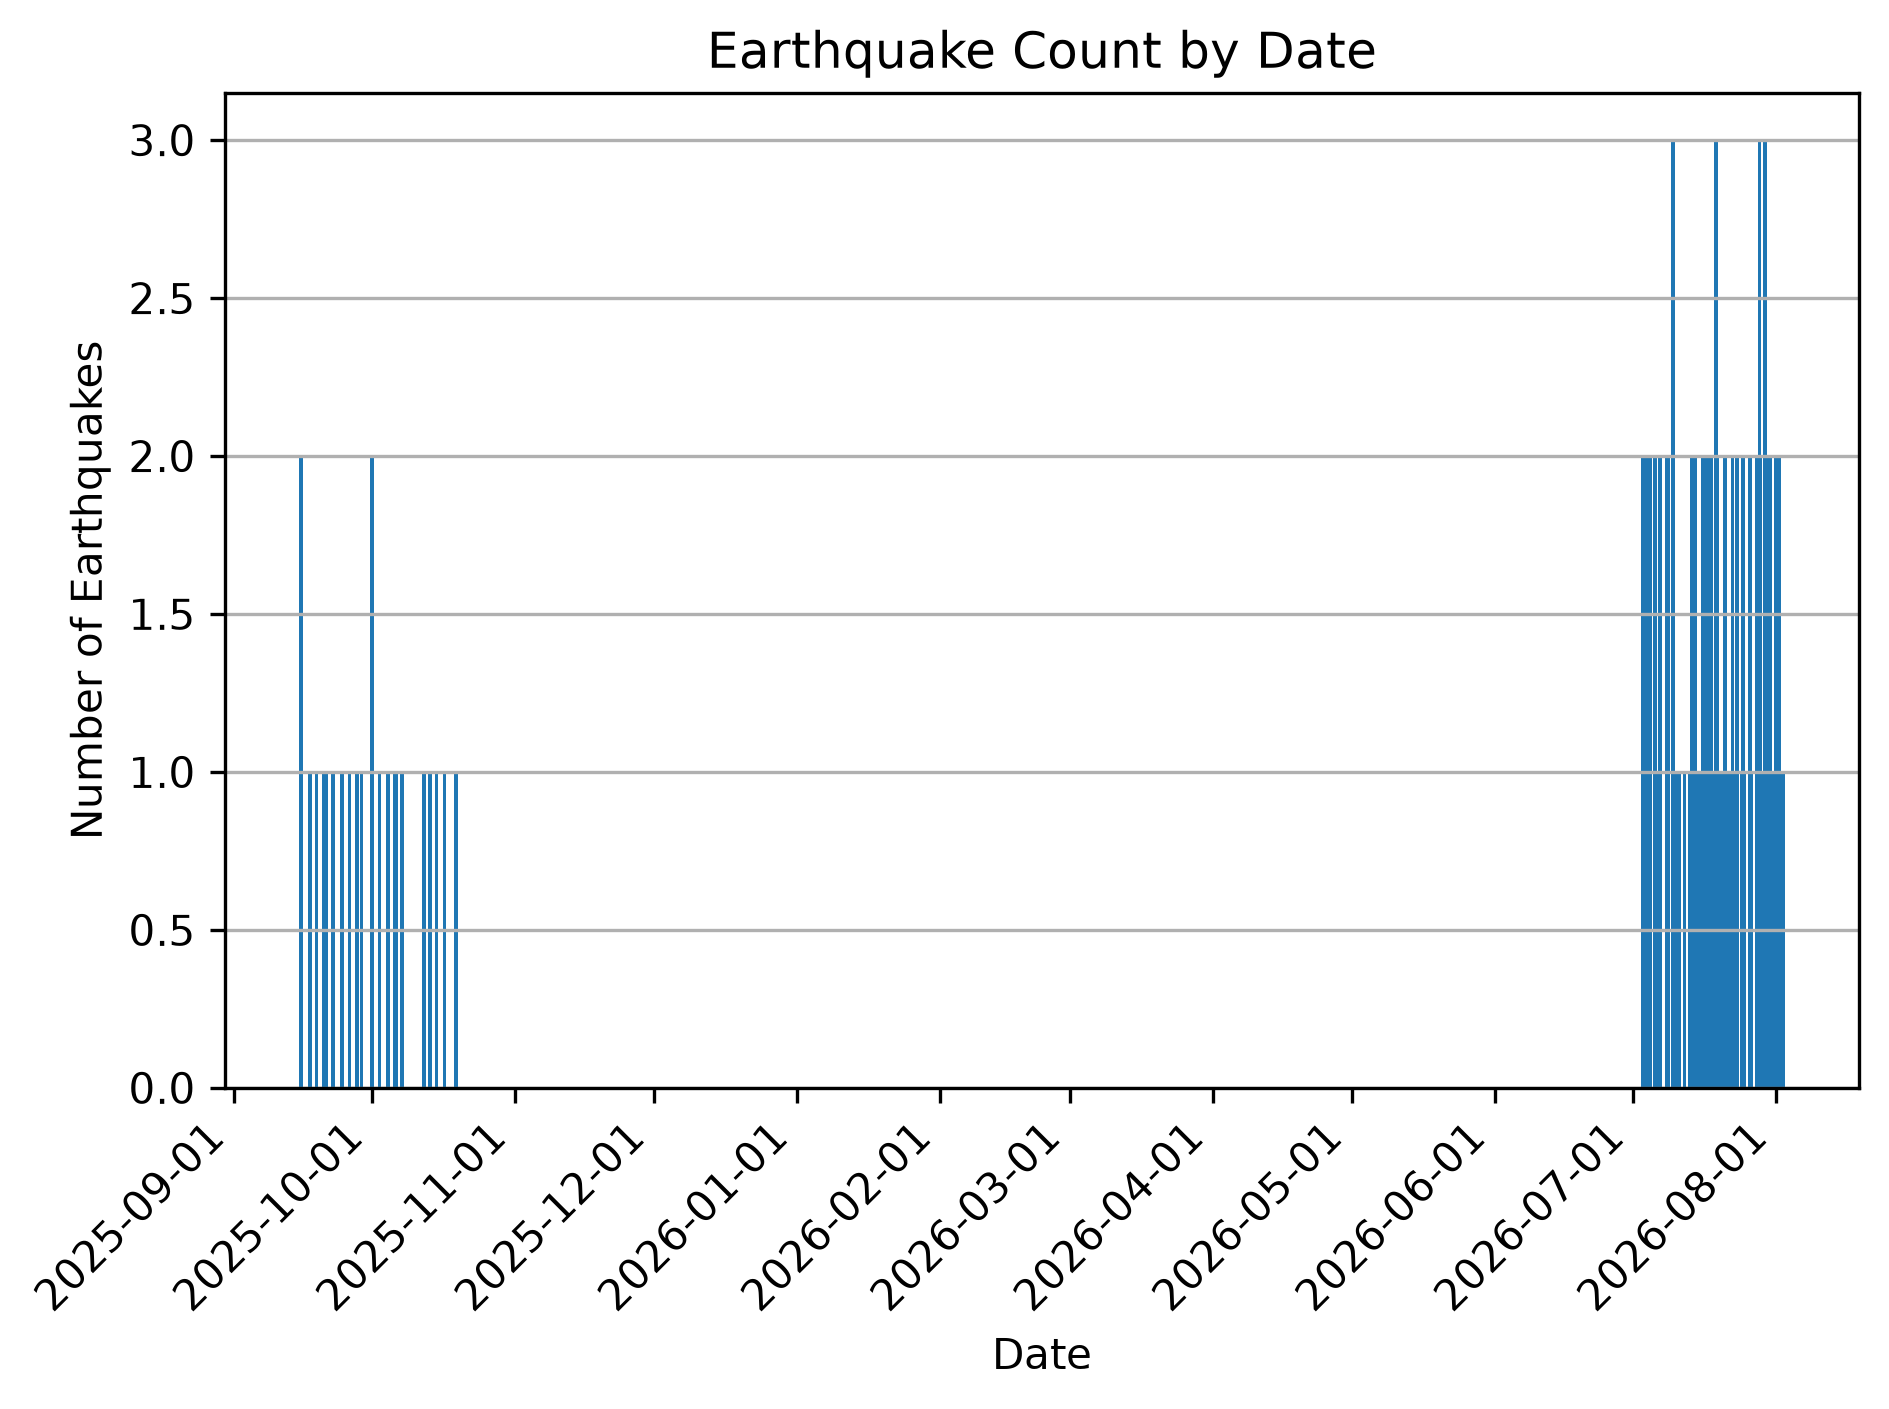
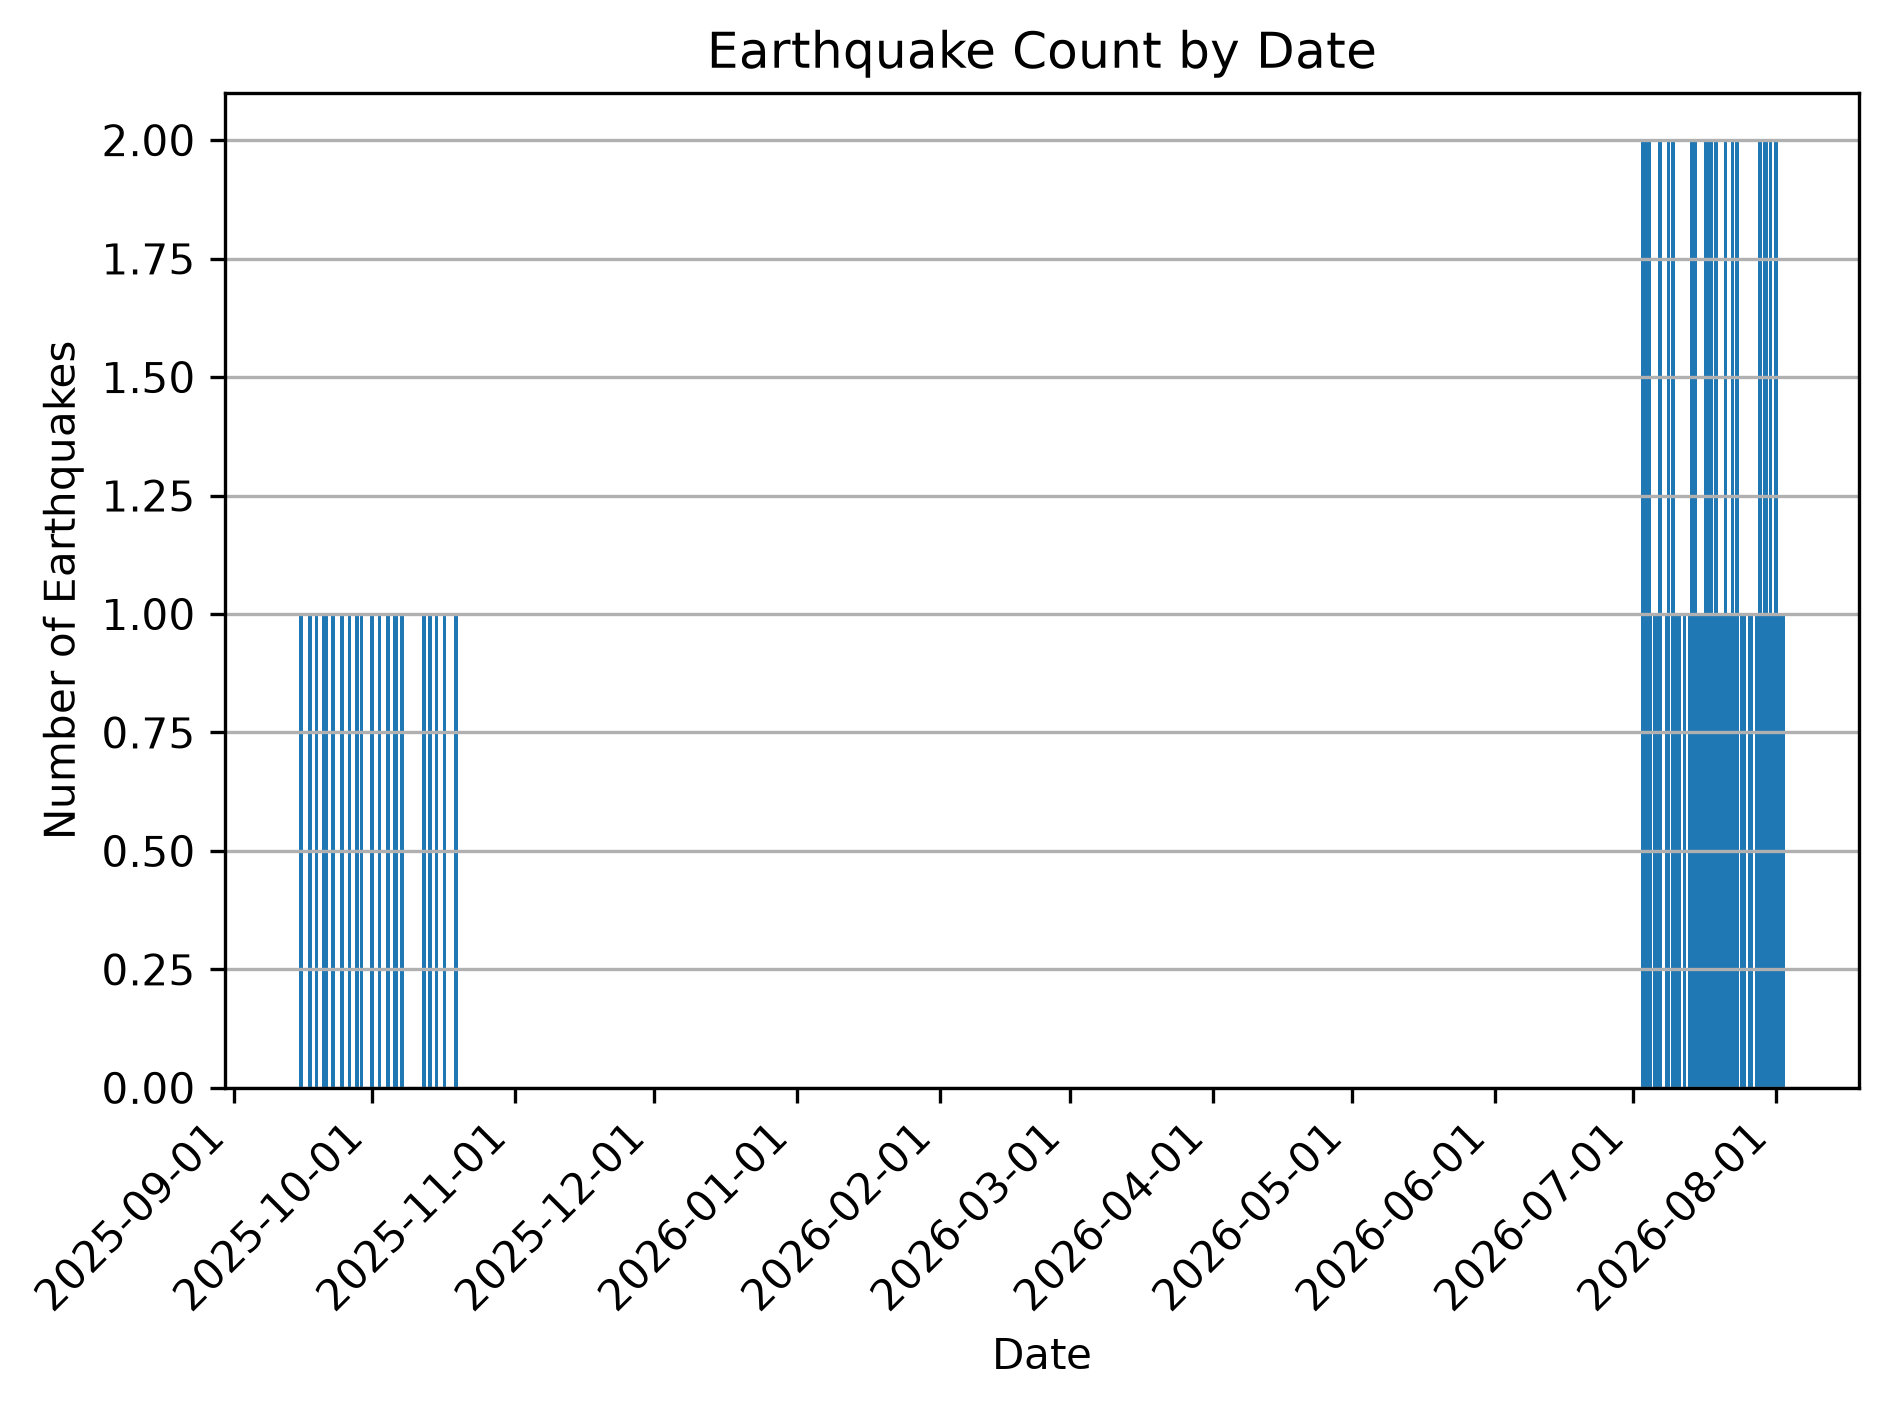
feat: add histogram of earthquake magnitude distribution by source

diff --git a/src/plots/earthquake_count.py b/src/plots/earthquake_count.py
@@ -88,3 +88,38 @@ def earthquake_count_by_hour_line_chart(db: Database) -> None:
         dpi=300,
         bbox_inches="tight",
     )
+
+
+def magnitude_distribution_by_source_hist_chart(db: Database) -> None:
+    name = "magnitude_distribution_by_source_hist_chart"
+    result = db.run_script(f"analysis/plots/{name}.sql")
+    if not result:
+        return
+
+    magnitudes_by_source: dict[str, list[float]] = {}
+    for record in result:  # pyright: ignore
+        magnitudes_by_source.setdefault(record.source, []).append(record.magnitude)  # pyright: ignore
+
+    fig, ax = plt.subplots()
+
+    ax.hist(
+        magnitudes_by_source.values(),  # pyright: ignore
+        bins=15,
+        linewidth=0.5,
+        edgecolor="white",
+        stacked=True,
+        label=list(magnitudes_by_source.keys()),
+    )
+
+    ax.set(
+        title="Distribution of Earthquake Magnitudes by Source",
+        xlabel="Magnitude",
+        ylabel="Number of Earthquakes",
+    )
+    ax.legend(title="Source")
+    output_dir = BASE_DIR / "outputs"
+    plt.savefig(
+        output_dir / f"{name}.png",
+        dpi=300,
+        bbox_inches="tight",
+    )

diff --git a/src/plots/merge.py b/src/plots/merge.py
@@ -3,6 +3,7 @@ from src.plots.earthquake_count import (
     earthquake_count_by_date_bar_chart,
     earthquake_count_by_dow_line_chart,
     earthquake_count_by_hour_line_chart,
+    magnitude_distribution_by_source_hist_chart,
 )
 
 
@@ -10,3 +11,4 @@ def plot_and_save(db: Database) -> None:
     earthquake_count_by_date_bar_chart(db)
     earthquake_count_by_hour_line_chart(db)
     earthquake_count_by_dow_line_chart(db)
+    magnitude_distribution_by_source_hist_chart(db)
